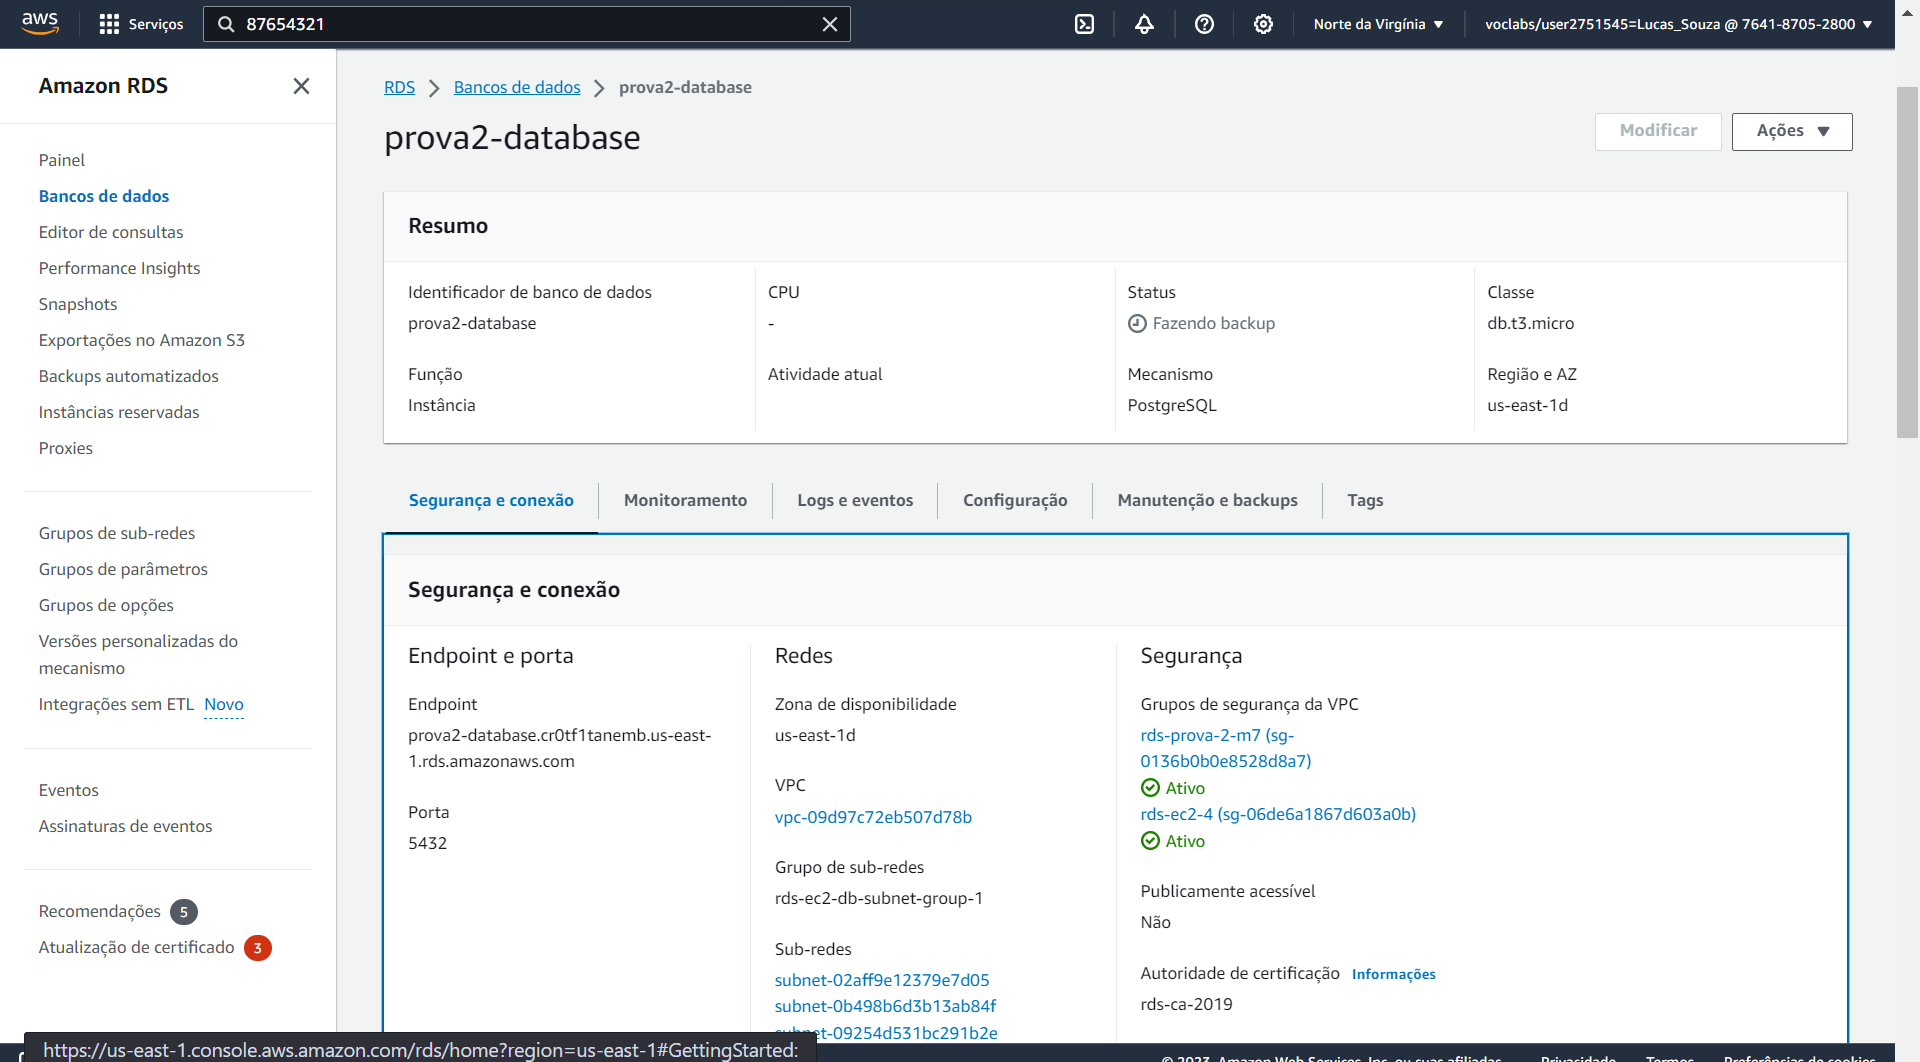
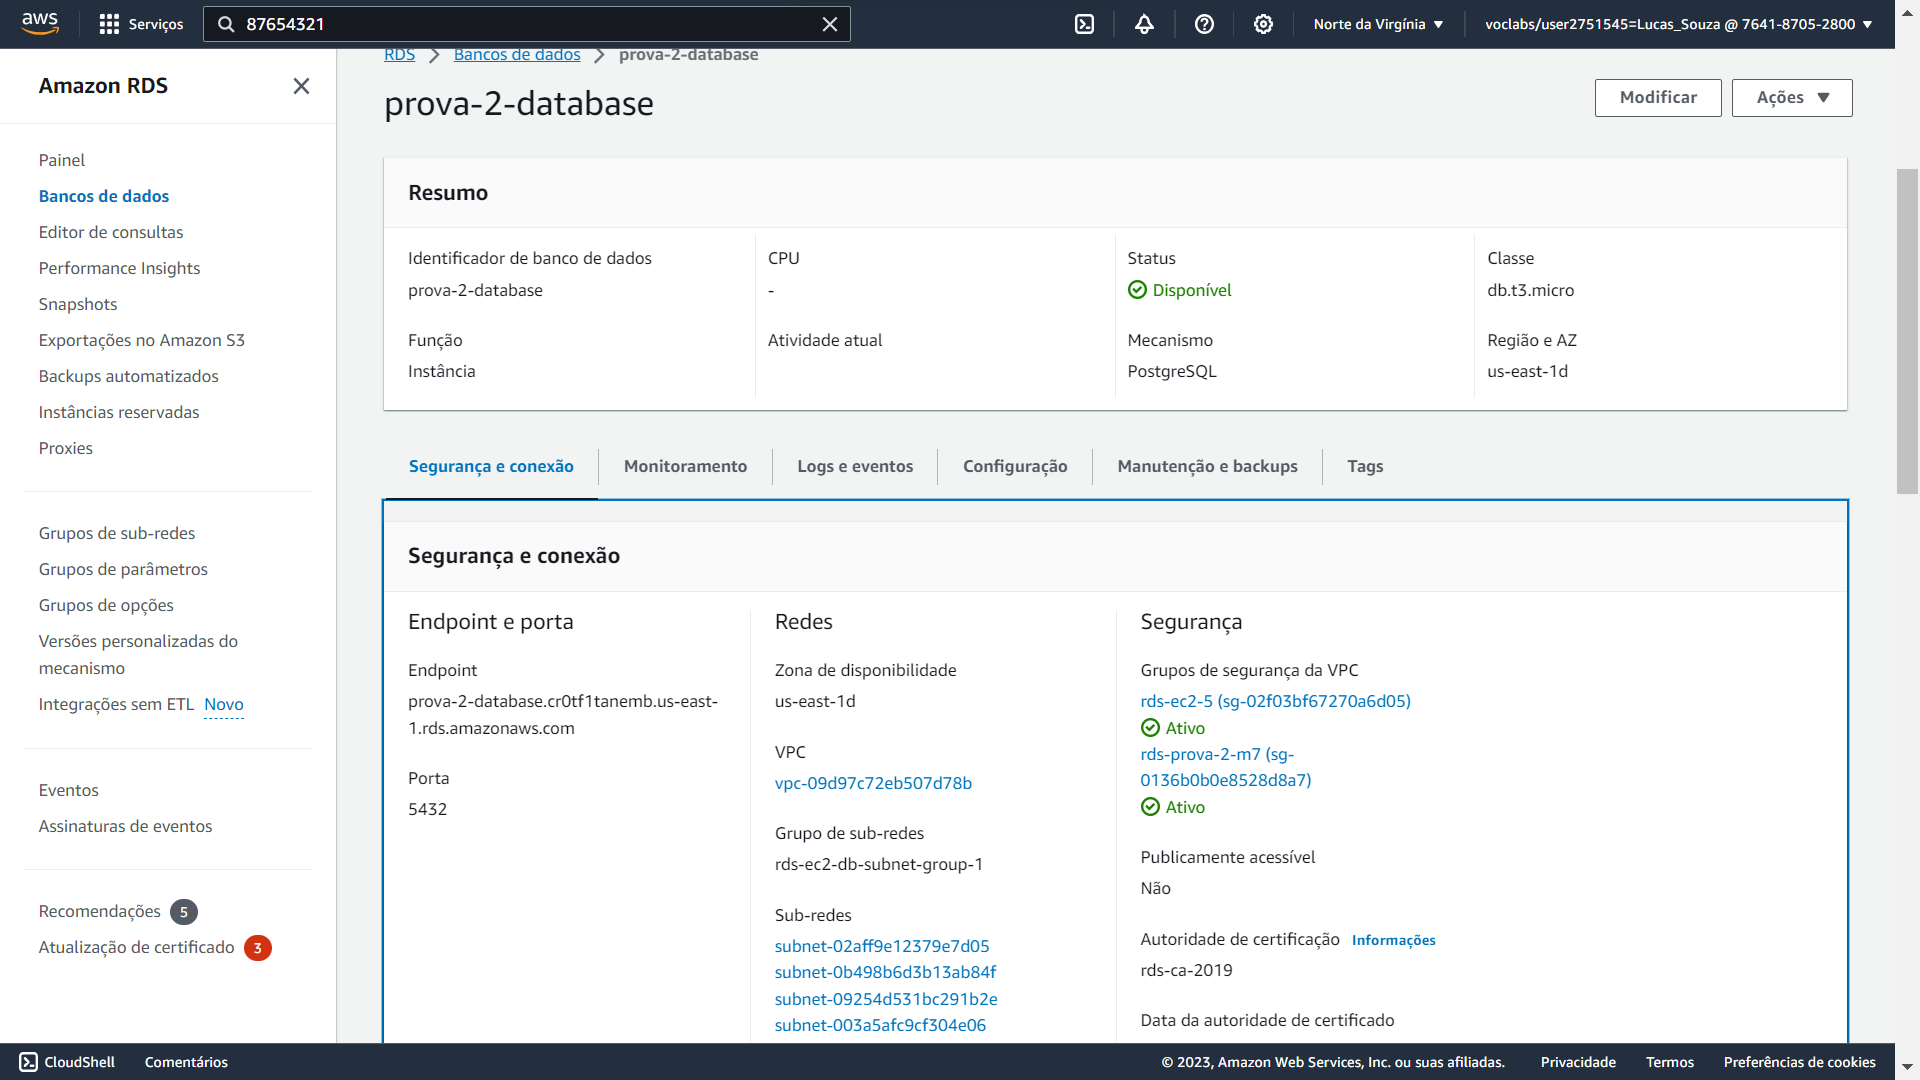
atualização pq fiz errado sem o ubuntu

diff --git a/provas/prova_2/frontend/script.js b/provas/prova_2/frontend/script.js
@@ -4,7 +4,7 @@ function addTask() {
 
   if (taskText !== "") {
     //Realizar um POST com fetch para enviar os dados para o backend
-    fetch("http://44.206.243.115:80/create_note", {
+    fetch("http://34.239.111.82:80/create_note", {
       method: "POST",
       body: JSON.stringify({
         titulo: `Minha Nota`,
@@ -26,7 +26,7 @@ function getTasks() {
   const taskList = document.getElementById("taskList");
   //Limpa a lista
   taskList.innerHTML = "";
-  fetch("http://44.206.243.115:80/notes")
+  fetch("http://34.239.111.82:80/notes")
     .then((response) => response.json())
     .then((data) => {
       data["data"].forEach((task) => {
@@ -57,7 +57,7 @@ function getTasks() {
 }
 
 function deleteTask(id) {
-  fetch(`http://44.206.243.115:80/delete_note/`, {
+  fetch(`http://34.239.111.82:80/delete_note/`, {
     method: "DELETE",
     headers: {
       "Content-type": "application/json; charset=UTF-8",

diff --git a/provas/prova_2/backend/criar_banco.py b/provas/prova_2/backend/criar_banco.py
@@ -3,7 +3,7 @@ import psycopg2
 # Constantes
 DB_USER = "jupiter"
 DB_PASSWORD = "87654321"
-DB_HOST = "prova2-database.cr0tf1tanemb.us-east-1.rds.amazonaws.com"
+DB_HOST = "prova-2-database.cr0tf1tanemb.us-east-1.rds.amazonaws.com"
 DB_PORT = "5432"
 DB_NAME = "prova2"
 

diff --git a/provas/prova_2/backend/main.py b/provas/prova_2/backend/main.py
@@ -7,7 +7,7 @@ import psycopg2
 # Constantes
 DB_USER = "jupiter"
 DB_PASSWORD = "87654321"
-DB_HOST = "prova2-database.cr0tf1tanemb.us-east-1.rds.amazonaws.com"
+DB_HOST = "prova-2-database.cr0tf1tanemb.us-east-1.rds.amazonaws.com"
 DB_PORT = "5432"
 DB_NAME = "prova2"
 

diff --git a/provas/prova_2/README.md b/provas/prova_2/README.md
@@ -11,6 +11,7 @@ Cada um desses recursos deve ser criado utilizando uma instância de EC2 para su
 #### Passos 1 e 2: Criar instâncias EC2 para frontend e backend
 Criação de um EC2 para o frontend e outro para o backend. Aqui, o frontend possui permissões de entrada na porta 80 (usaremos o apache para disponibilizá-lo), já o backend, coloquei qualquer configuração e mudarei ela para colocar na porta 8000.
 ![Alt text](./media/instancias-ec2.png)
+![Alt text](./media/instancias-ec2.png)
 
 #### Passo 3: Criar um RDS utilizando postgres.
 Criaremos um RDS utilizando postgres. Para isso, configuramos para que ele tenha conexão com o EC2 do backend:
@@ -19,7 +20,7 @@ Criaremos um RDS utilizando postgres. Para isso, configuramos para que ele tenha
 Concomitantemente, alteramos as configurações de acesso no próprio backend. Acessaremos o banco por meio das seguintes configurações:
 <pre><code>DB_USER = "jupiter"
 DB_PASSWORD = "87654321"
-DB_HOST = "prova2-database.cr0tf1tanemb.us-east-1.rds.amazonaws.com"
+DB_HOST = "prova-2-database.cr0tf1tanemb.us-east-1.rds.amazonaws.com"
 DB_PORT = "5432"
 DB_NAME = "prova2"</code></pre>
 
@@ -29,3 +30,18 @@ Primeiro, precisamos garantir que as requisições que o frontend for fazer ao b
 ![Alt text](./media/ipv4-backend.png)
 
 Agora sim, vamos acessar os EC2 e fazer tudo funcionar.
+
+#### Passo 5: Colocando o backend no EC2
+Vamos começar pelo backend. Para colocar nosso backend lá, vamos acessar o EC2 por meio de ssh. No meu caso, apenas preciso utilizar a chave .pem que criei quando o EC2 foi criado.
+```ssh -i jupyter.pem ubuntu@ec2-34-239-111-82.compute-1.amazonaws.com```
+![Alt text](./media/entrando-ec2-1.png)
+
+Aqui, vamos primeiro instalar o python.
+```sudo apt update```
+```sudo apt ugrade```
+```sudo apt-get install python3```
+
+
+#### Passo 6: Colocando o frontend no EC2
+Com o backend criado, vamos colocar nosso frontend no outro ec2. Entraremos no EC2 da mesma forma:
+```ssh -i jupyter.pem ubuntu@ec2-3-88-109-217.compute-1.amazonaws.com```
